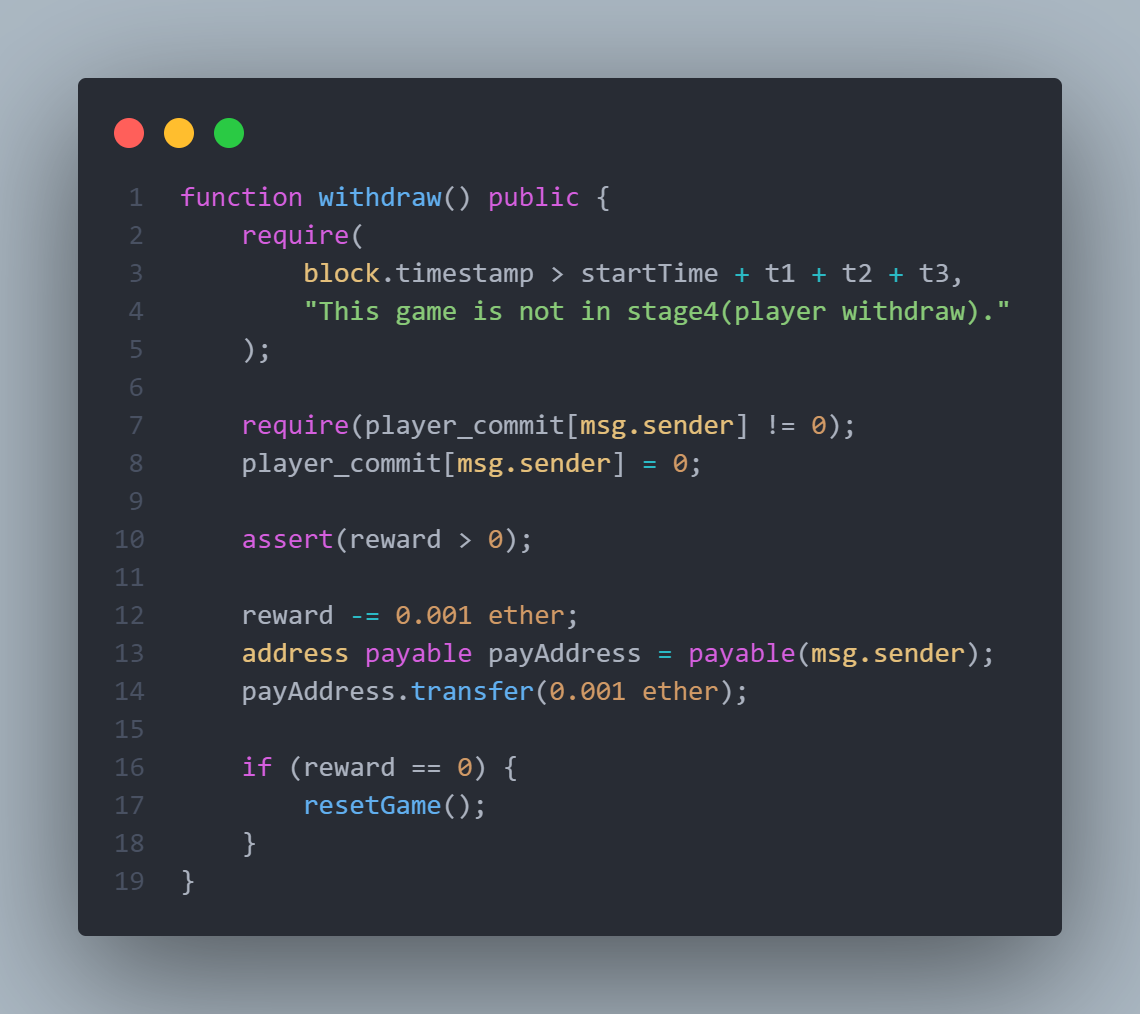
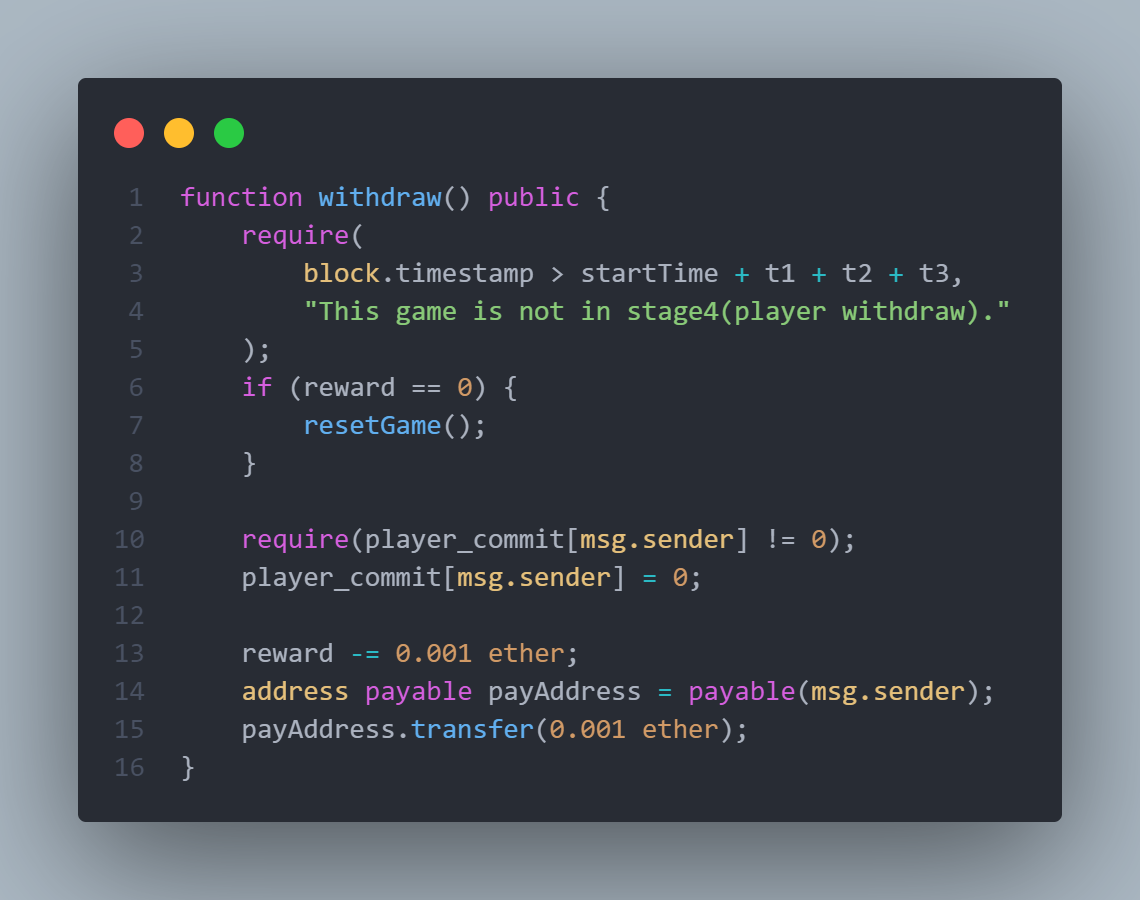
Update readme

diff --git a/README.md b/README.md
@@ -66,9 +66,9 @@
 
 ### Stage 4 (player_withdraw):
 1. Check if the game is in stage 4 (player_withdraw).
-2. Check if the player already join the game.
-3. Set the player commit value to `0`. (to prevent double withdraw).
-4. Assert the reward is not empty. (to prevent error).
+2. If reward is empty, call the `resetGame` function. (this also function work as a reset game).
+3. Check if the player already join the game.
+4. Set the player commit value to `0`. (to prevent double withdraw).
 5. Transfer the reward to the player.
 6. Call the `resetGame` function if the reward is empty.
 ---
